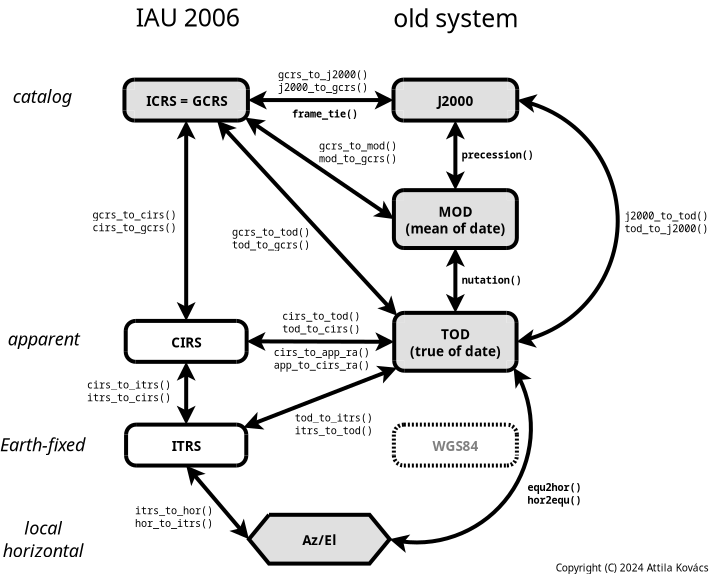
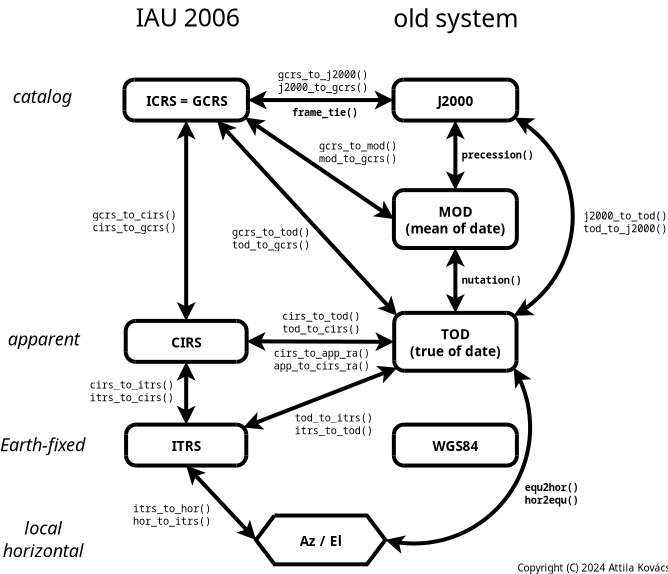
v1.2.0-rc3

diff --git a/src/novas.c b/src/novas.c
@@ -5282,7 +5282,7 @@ short cio_location(double jd_tdb, enum novas_accuracy accuracy, double *ra_cio, 
     *loc_type = -1;
 
   if(!ra_cio || !loc_type)
-    return novas_error(-1, EINVAL, fn, "NULL output poointer: ra_cio=%p, loc_type=%p", ra_cio, loc_type);
+    return novas_error(-1, EINVAL, fn, "NULL output pointer: ra_cio=%p, loc_type=%p", ra_cio, loc_type);
 
   if(accuracy != NOVAS_FULL_ACCURACY && accuracy != NOVAS_REDUCED_ACCURACY)
     return novas_error(-1, EINVAL, fn, "invalid accuracy: %d", accuracy);

diff --git a/include/novas.h b/include/novas.h
@@ -68,7 +68,7 @@
 #define SUPERNOVAS_PATCHLEVEL     0
 
 /// Additional release information in version, e.g. "-1", or "-rc1".
-#define SUPERNOVAS_RELEASE_STRING "-devel"
+#define SUPERNOVAS_RELEASE_STRING "-rc3"
 
 /// \cond PRIVATE
 

diff --git a/README.md b/README.md
@@ -379,7 +379,7 @@ Earth (at the geocenter, on the surface, or in Earth orbit).
 
 | ![SuperNOVAS coordinate systems and conversions](https://github.com/Smithsonian/SuperNOVAS/blob/main/resources/SuperNOVAS-systems.png) |
 |:--:| 
-| __Figure 1.__ *SuperNOVAS Coordinate Systems and Conversions*. Bold face routines and shaded boxes indicate systems and functions available in NOVAS C also. All other systems and functions are available in SuperNOVAS only.              |
+| __Figure 1.__ *SuperNOVAS Coordinate Systems and Conversions*. Functions indicated in bold face are available in NOVAS C also. All other functions are available in SuperNOVAS only.              |
 
 SuperNOVAS __v1.1__ has introduced a new, more intuitive, more elegant, and more efficient approach for calculating
 astrometric positions of celestial objects. The guide below is geared towards this new method. However, the original
@@ -400,7 +400,6 @@ for which we have B1950 (i.e. FK4) coordinates:
 
 ```c
  cat_entry star; // Structure to contain information on sidereal source 
-
 
  // Let's assume we have B1950 (FK4) coordinates...
  // 16h26m20.1918s, -26d19m23.138s (B1950), proper motion -12.11, -23.30 mas/year, 

diff --git a/CHANGELOG.md b/CHANGELOG.md
@@ -7,7 +7,7 @@ The format is based on [Keep a Changelog](https://keepachangelog.com/en/1.1.0/),
 [Semantic Versioning](https://semver.org/spec/v2.0.0.html).
 
 
-## [Unreleased]
+## [1.2.0-rc3] - 2024-11-24
 
 Release candidate for the next feature release, expected around 1 February 2025.
 
@@ -89,6 +89,8 @@ Release candidate for the next feature release, expected around 1 February 2025.
  
  - SuperNOVAS headers now include each other as system-headers, not local headers. This is unlikely to affect anything
    really but it is more proper for an installation of the library, and works with our own `Makefile` too.
+   
+ - Added 'Coordinate Systems and Conversions' flowchart to `README`.
    
    
 ### Changed
